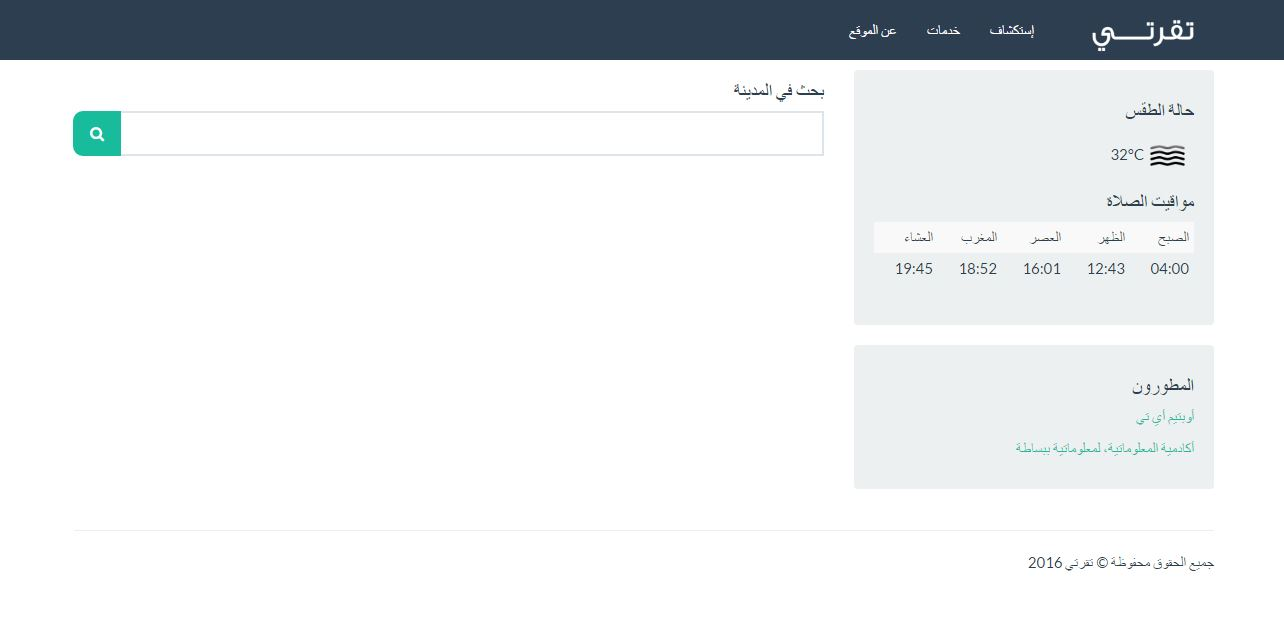
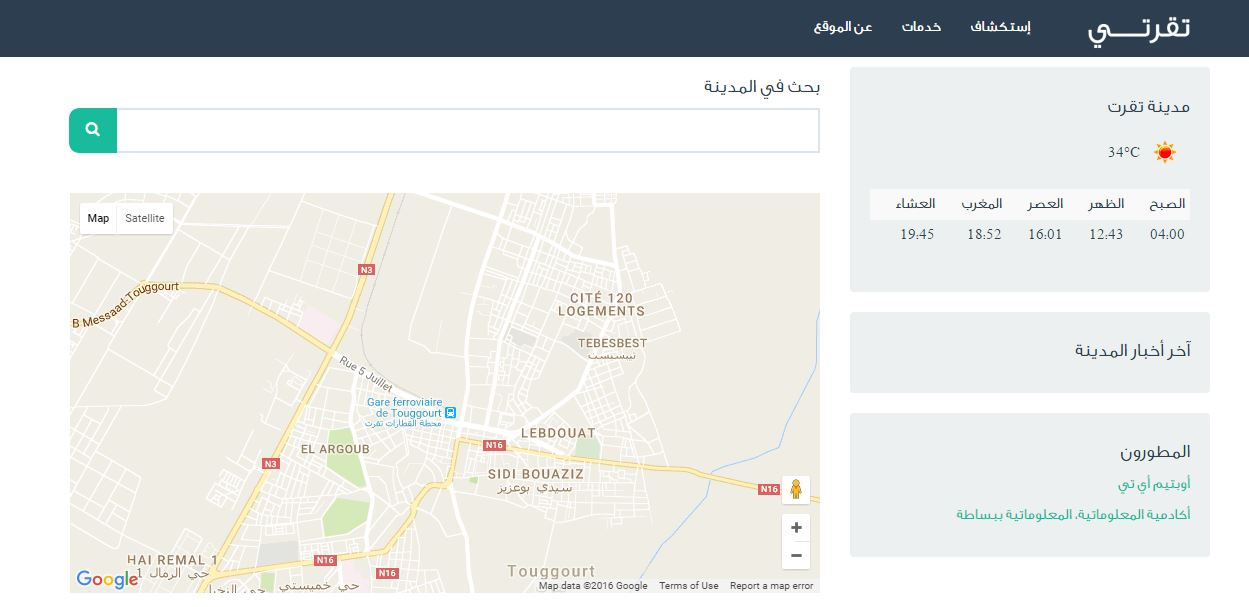
Added Gmap first essay

diff --git a/src/app/app.html b/src/app/app.html
@@ -1,5 +1,5 @@
   <!-- Navigation -->
-<nav class="navbar navbar-default navbar-fixed-top" role="navigation" >
+<nav class="navbar navbar-default navbar-fixed-top" role="navigation">
     <div class="container">
         <!-- Brand and toggle get grouped for better mobile display -->
         <div class="navbar-header " style="float:right">
@@ -9,10 +9,10 @@
                 <span class="icon-bar"></span>
                 <span class="icon-bar"></span>
             </button>
-            <a class="navbar-brand" href="/"><img  src="images/logo.png" alt="تقرتي"/></a>
+            <a class="navbar-brand" href="/"><img src="images/logo.png" alt="تقرتي" /></a>
         </div>
         <!-- Collect the nav links, forms, and other content for toggling -->
-        <div class="collapse navbar-collapse" id="bs-example-navbar-collapse-1"  style="float:right">
+        <div class="collapse navbar-collapse" id="bs-example-navbar-collapse-1" style="float:right">
             <ul class="nav navbar-nav">
                 <li>
                     <a href="#">عن الموقع</a>
@@ -35,46 +35,52 @@
     <div class="row">
         <!-- Blog Entries Column -->
         <div class="col-md-8">
-                <h4>بحث في المدينة</h4>
-                <div class="input-group input-group-rtl">
-                    <input type="text" class="form-control">
-                    <span class="input-group-btn input-group-btn-rtl">
-                        <button class="btn btn-success" type="button">
-                            <span class="fa fa-search"></span>
-                        </button>
-                    </span>
-                <!-- /.input-group -->
+            <h4>بحث في المدينة</h4>
+            <div class="input-group input-group-rtl">
+                <input type="text" class="form-control">
+                <span class="input-group-btn input-group-btn-rtl">
+                    <button class="btn btn-success" type="button">
+                        <span class="fa fa-search"></span>
+                    </button>
+                </span>
+                
+            </div>
+            <div class="clearfix" style="margin:20px;"></div>
+            <div >
+                <tggt-map></tggt-map>
             </div>
         </div>
         <!-- Blog Sidebar Widgets Column -->
         <div class="col-md-4">
             <!-- Blog Search Well -->
-         
             <!-- Blog Categories Well -->
             <div class="well">
-                <h4>حالة الطقس</h4>
+                <h4>مدينة تقرت</h4>
                 <tggt-weather></tggt-weather>
-                <h4>مواقيت الصلاة</h4>
                 <tggt-prayer></tggt-prayer>
+            </div>
+            <div class="well">
+                <h4>آخر أخبار المدينة</h4>
             </div>
             <!-- Side Widget Well -->
             <div class="well">
                 <h4>المطورون</h4>
                 <p><a href="http://optimit.dz" target="_blank">أوبتيم أي تي</a></p>
-                <p><a href="http://academyatinfo.com" target="_blank">أكادمية المعلوماتية، لمعلوماتية ببساطة</a></p>
+                <p><a href="http://academyatinfo.com" target="_blank">أكادمية المعلوماتية، المعلوماتية ببساطة</a></p>
             </div>
         </div>
     </div>
     <!-- /.row -->
     <hr>
     <!-- Footer -->
-    <footer>
-        <div class="row">
-            <div class="col-lg-12">
-                <p>جميع الحقوق محفوظة &copy; تقرتي {{year}}</p>
-            </div>
-            <!-- /.col-lg-12 -->
-        </div>
-        <!-- /.row -->
-    </footer>
+
 </div>
+<footer >
+    <div style="padding-top:20px;padding-bottom:5px">
+        <div style="margin:auto;text-align:center;width:70%;color:white">
+            <p>جميع الحقوق محفوظة &copy; تقرتي {{year}}</p>
+        </div>
+        <!-- /.col-lg-12 -->
+    </div>
+    <!-- /.row -->
+</footer>

diff --git a/src/app/index.html b/src/app/index.html
@@ -25,6 +25,7 @@
     <script src='app.component.js'></script>
     <script src='widgets/weather.js'></script>
     <script src='widgets/prayer.js'></script>
+    <script src='widgets/map.js'></script>
     <script src='app.module.js'></script>
     <script src='main.js'></script>
     <script src="js/frontend.js"></script>
@@ -33,7 +34,17 @@
 <body>
 
     <tggt-app></tggt-app>
-
+    <script>
+      var map;
+      function initMap() {
+        map = new google.maps.Map(document.getElementById('map'), {
+            center: { lat: 33.1130013, lng: 6.0694183 },
+          zoom: 14
+        });
+      }
+    </script>
+    <script src="https://maps.googleapis.com/maps/api/js?key=AIzaSyCb523LXFWmMkhES-oztJZRFPhOZIcrvlM&callback=initMap"
+            async defer></script>
     <script src="js/bsjq.js"></script>
 </body>
 </html>

diff --git a/src/app/app.module.js b/src/app/app.module.js
@@ -2,7 +2,7 @@
   app.AppModule =
     ng.core.NgModule({
       imports: [ ng.platformBrowser.BrowserModule ],
-      declarations: [app.AppComponent, app.WeatherComponent, app.PrayerComponent],
+      declarations: [app.AppComponent, app.WeatherComponent, app.PrayerComponent, app.MapComponent],
       bootstrap: [ app.AppComponent ]
     })
     .Class({

diff --git a/src/app/main.css b/src/app/main.css
@@ -3,9 +3,6 @@
     font-family: tggtfont;
     src: url('fonts/tggtfont.otf') format('opentype');
 }
-#test {
-    font-family: 'tggtfont';
-}
 
 .navbar-brand {
     padding-top: 15px;
@@ -26,4 +23,7 @@
     -moz-border-radius: 0;
     -webkit-border-radius: 0;
     border-radius: 0;
+}
+#map{
+    height:400px;
 }

diff --git a/src/app/widgets/map.js b/src/app/widgets/map.js
@@ -1,0 +1,15 @@
+(function (app) {
+    app.MapComponent =
+      ng.core.Component({
+          selector: 'tggt-map',
+          templateUrl: 'views/map.html'
+      })
+      .Class({
+          constructor: function () {
+           
+          }
+      });
+
+
+})(window.app || (window.app = {}));
+

diff --git a/src/assets/css/frontend.less b/src/assets/css/frontend.less
@@ -3,3 +3,12 @@
 @import "../../../public/vendor/bootstrap/less/bootstrap.less";
 @import "../../../public/vendor/font-awesome/less/font-awesome.less";
 @import "swatches.less";
+
+footer,html{
+    background-color:@brand-primary;
+    
+}
+
+body,html{
+    padding:0;margin:0;
+}

diff --git a/src/app/views/map.html b/src/app/views/map.html
@@ -1,0 +1,3 @@
+<div id="map">
+</div>
+
